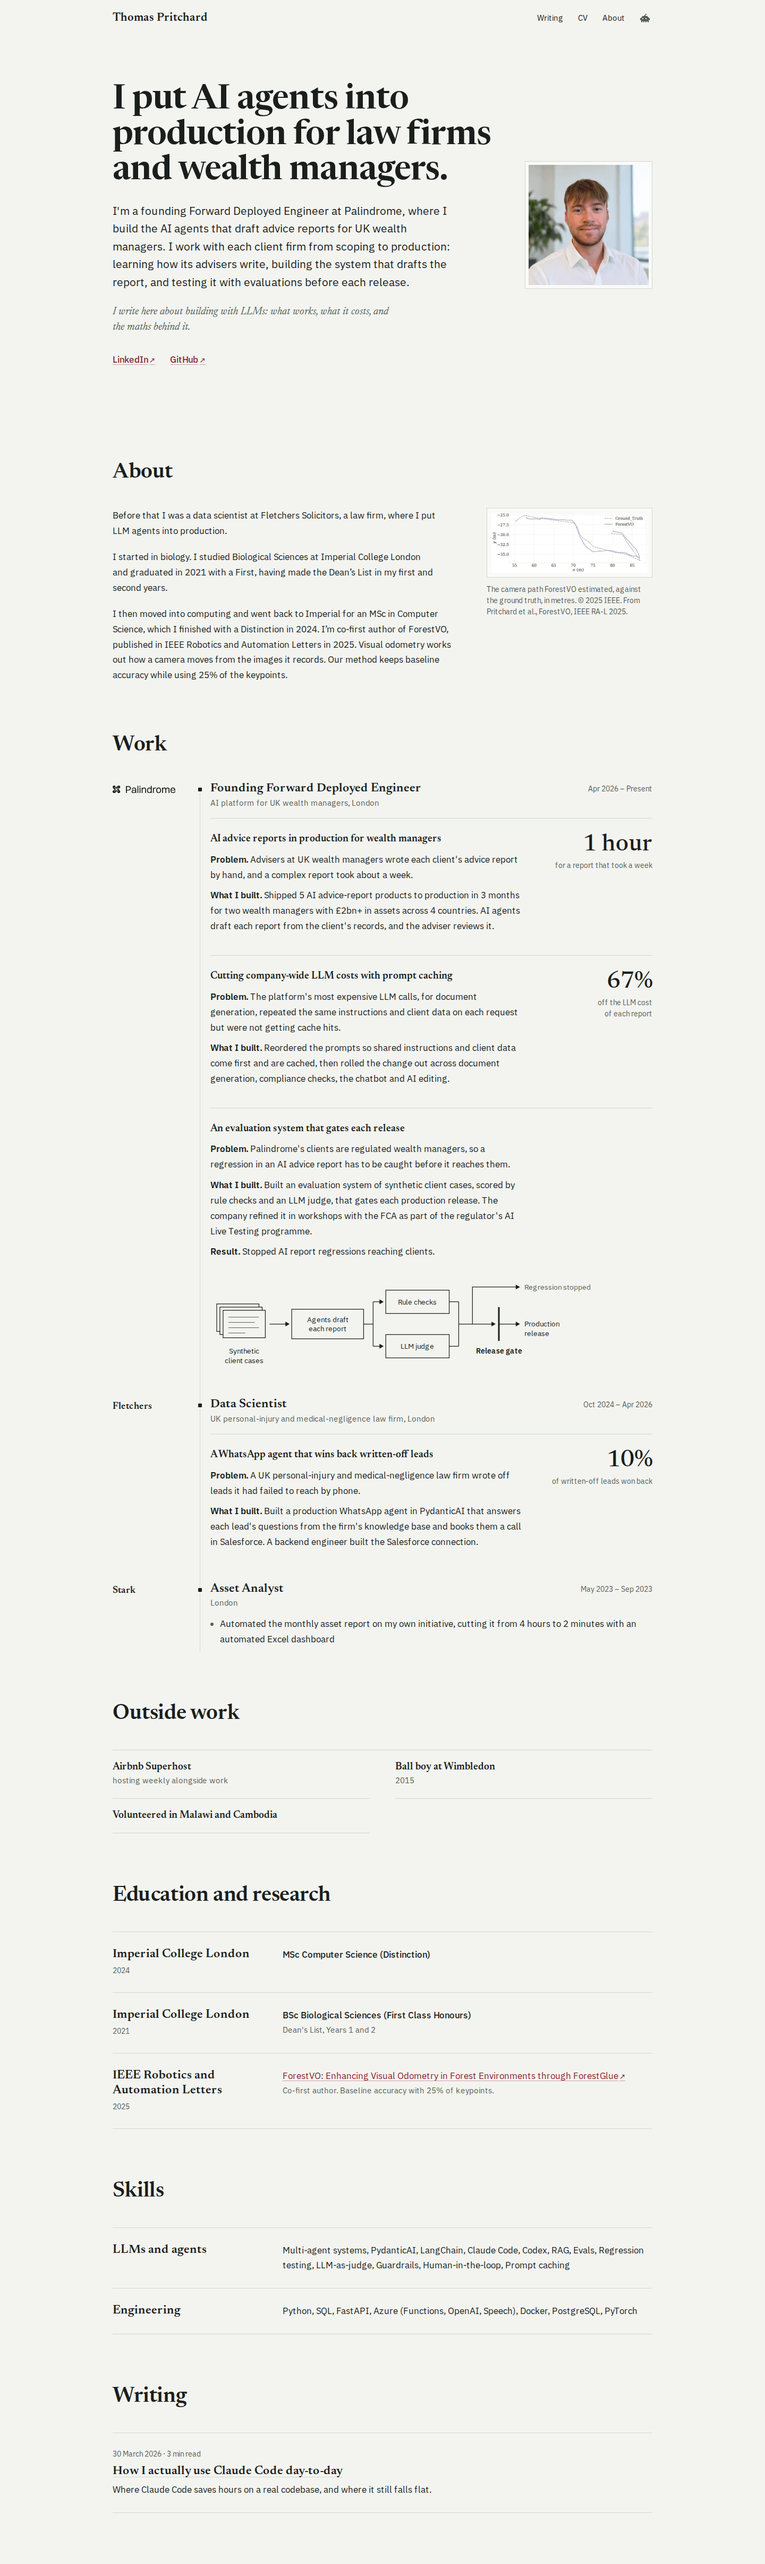
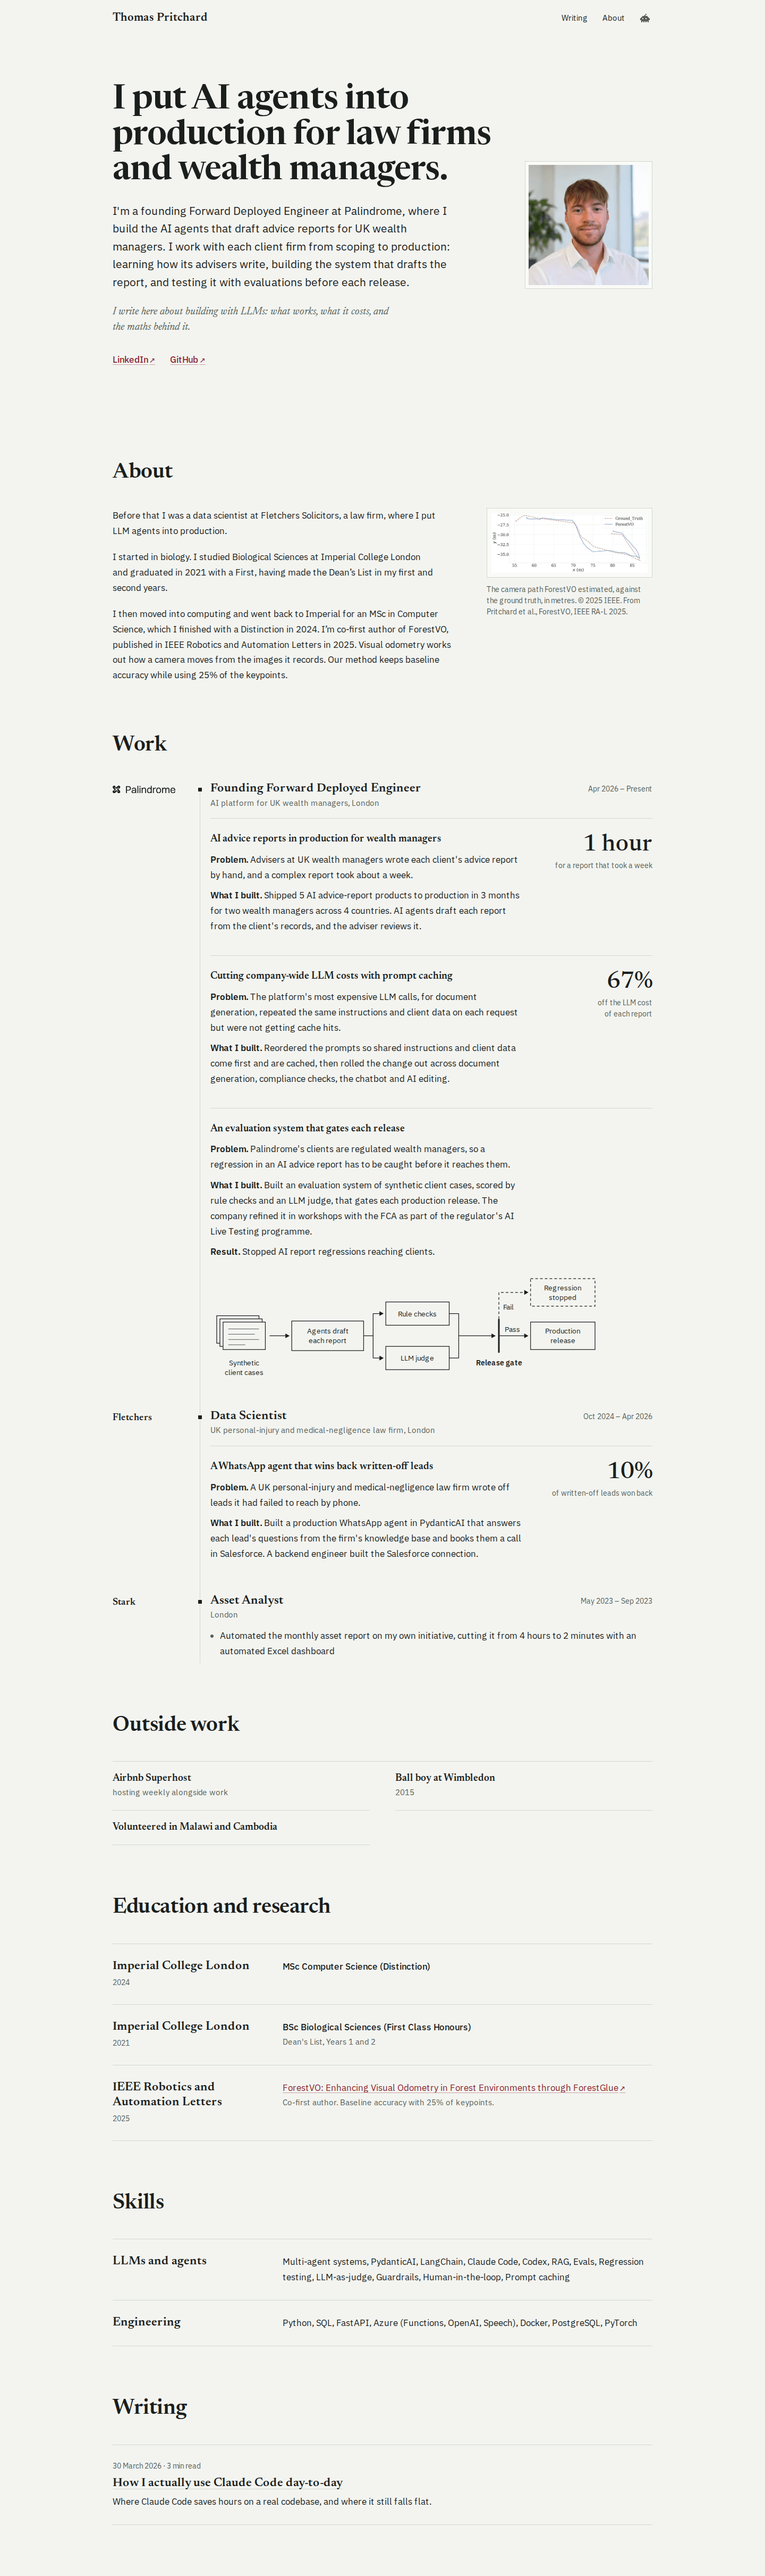
docs(design): refresh the screenshots and the case comparison
The shots now show the site without the CV page, with the labelled
evaluation diagram and the 404 page without its second alien; the
case comparison's Title Case half also converts role titles, skills
labels and post titles. The plan log records the gate run, and the
README and SYSTEM.md say what check-pages and the comparison do now.

diff --git a/plans/site-v2.md b/plans/site-v2.md
@@ -992,3 +992,24 @@ Green: `Tests  52 passed (52)` for `src/lib/invaders`. "unlock" is on the slop l
 #### The 404 page's second alien, and Pass and Fail on the diagram
 
 The 404 page lost its own alien button and the `.lost` CSS (the nav carries one on every page); its CONTROLS entry has no controls left. The evaluation diagram on the home page now branches out of the release gate: "Pass" to a "Production release" box, "Fail" to a "Regression stopped" box, the fail line and its box dashed (`.dg-dash`), in both drawings (across from 40rem, down below it, where the two outcomes sit side by side at 14px); the screen-reader title says the same. Checked on the owner's dev server at 1440 and 375: layout as intended, but that server's CSS had not picked up the new rule (no `.dg-dash` in its stylesheets), so the dashes are proven on the clone's production build below.
+
+#### Gates, screenshots and the case comparison
+
+One fresh `git clone --local` of `site-v2-kb` at 5301127 in a `mktemp -d` folder (`npm ci --prefer-offline`, `scripts/setup-dev.sh`); the owner's dev server on 3006 was left alone. `scripts/ci.sh` ends `slop: 0 hits in 0 of 6 files` and `ci: all gates green`. Then `npx next start -p 3016`:
+
+```
+--- curl -sI /cv
+HTTP/1.1 308 Permanent Redirect
+location: /
+--- sitemap
+<loc>http://localhost:3000</loc>
+<loc>http://localhost:3000/writing</loc>
+<loc>http://localhost:3000/about</loc>
+<loc>http://localhost:3000/writing/claude-code-workflow</loc>
+--- pound sign on built pages
+no page carries a pound sign
+.dg-dash{stroke-dasharray:5 4}
+check-pages: 5 pages x 2 widths x 2 themes, 0 problems
+```
+
+`npm run shots -- http://localhost:3016 --out <tmp>` passed every check (axe 20 of 20 runs, controls and nav on 5 routes at both widths, the game paused by P with Resume focused and the three won links, Escape back to the alien; `0 problems`). The lead asked for only home and About at 1440 light and 375 dark to save time, but the run writes every page anyway, so all 20 replace the old ones (the 404 and post pages changed too); the four `cv-*.png` were deleted with the CV. `case-compare-1440.png` and `case-compare-375.png` were regenerated by a throwaway script in the clone (not committed): the same build screenshotted twice, the second time with the section headings, case-study and role titles, skills labels and post titles rewritten to Title Case in the browser, so the comparison now converts those too. The clone's server was stopped by PID and the clone removed.

diff --git a/design/SYSTEM.md b/design/SYSTEM.md
@@ -6,7 +6,7 @@ The tokens in `src/app/globals.css` are the source of truth; this file says why 
 
 The anti-slop list the owner set on 3 October 2026:
 
-- **No letter-spaced caps.** Sentence case everywhere (the slop lint’s `headingCase` setting in `design/slop-allow.json` is "sentence"; "title" exists only to compare the two, see `design/shots/case-compare-*.png`). No `uppercase`, no `tracking-wide*`, no letter-spacing of 0.05em or more, no spaced-out capitals. Headings may tighten (down to -0.015em), never widen.
+- **No letter-spaced caps.** Sentence case everywhere (the slop lint’s `headingCase` setting in `design/slop-allow.json` is "sentence"; "title" exists only to compare the two, see `design/shots/case-compare-*.png`, whose Title Case half rewrites the section headings, case-study and role titles, skills labels and post titles in the browser on the same build, and is never shipped). No `uppercase`, no `tracking-wide*`, no letter-spacing of 0.05em or more, no spaced-out capitals. Headings may tighten (down to -0.015em), never widen.
 - **No pills or rounded boxes, except where they mean something.** Hairlines and space separate things; nothing is a card. Radius is 3px on code blocks and inline code only, and the lint fails anything over 4px. `design/slop-allow.json` has an empty radius list: any exception is listed there by component, with its reason, before it ships.
 - **No controls without a job.** Links are links, buttons are buttons. Every link, button and focusable element on each page is listed with its job in `design/CONTROLS.json` (the controls budget); the built-page lint and the rendered check fail anything unlisted. No theme toggle (the system setting already does that job), no search over a handful of posts, no print button.
 - **No grey filler under headings.** A heading is followed by content, a date, a number or a link, never a muted tagline.

diff --git a/README.md b/README.md
@@ -55,7 +55,7 @@ npm run check:pages -- http://localhost:3119   # default base URL: http://localh
 npm run shots -- http://localhost:3119         # the same checks, plus screenshots in design/shots/
 ```
 
-Every page (home, writing, each post, About and a missing page) is opened at 375 and 1440 pixels wide in the light and dark themes. The check runs axe (WCAG 2.2 AA) and fails on any serious, critical or colour-contrast violation; checks the rendered page's links and buttons against `design/CONTROLS.json` with the same code as `npm run lint:slop -- --built` with the invaders game open as well. It also measures the header nav on every page (one line, the alien's button at least 28x28, no sideways scroll). `--shots` saves `<page>-<width>-<theme>.png` full-page screenshots, palette-reduced to under 300KB; `--out <dir>` puts them elsewhere. Nothing is downloaded: it uses a Chromium that Playwright has already cached.
+Every page (home, writing, each post, About and a missing page) is opened at 375 and 1440 pixels wide in the light and dark themes. The check runs axe (WCAG 2.2 AA) and fails on any serious, critical or colour-contrast violation; checks the rendered page's links and buttons against `design/CONTROLS.json` with the same code as `npm run lint:slop -- --built`, and again on the home page with the invaders game open and paused. It also measures the header nav on every page (one line, the alien's button at least 28x28, no sideways scroll). `--shots` saves `<page>-<width>-<theme>.png` full-page screenshots, palette-reduced to under 300KB; `--out <dir>` puts them elsewhere. Nothing is downloaded: it uses a Chromium that Playwright has already cached.
 
 ## Configuration
 
